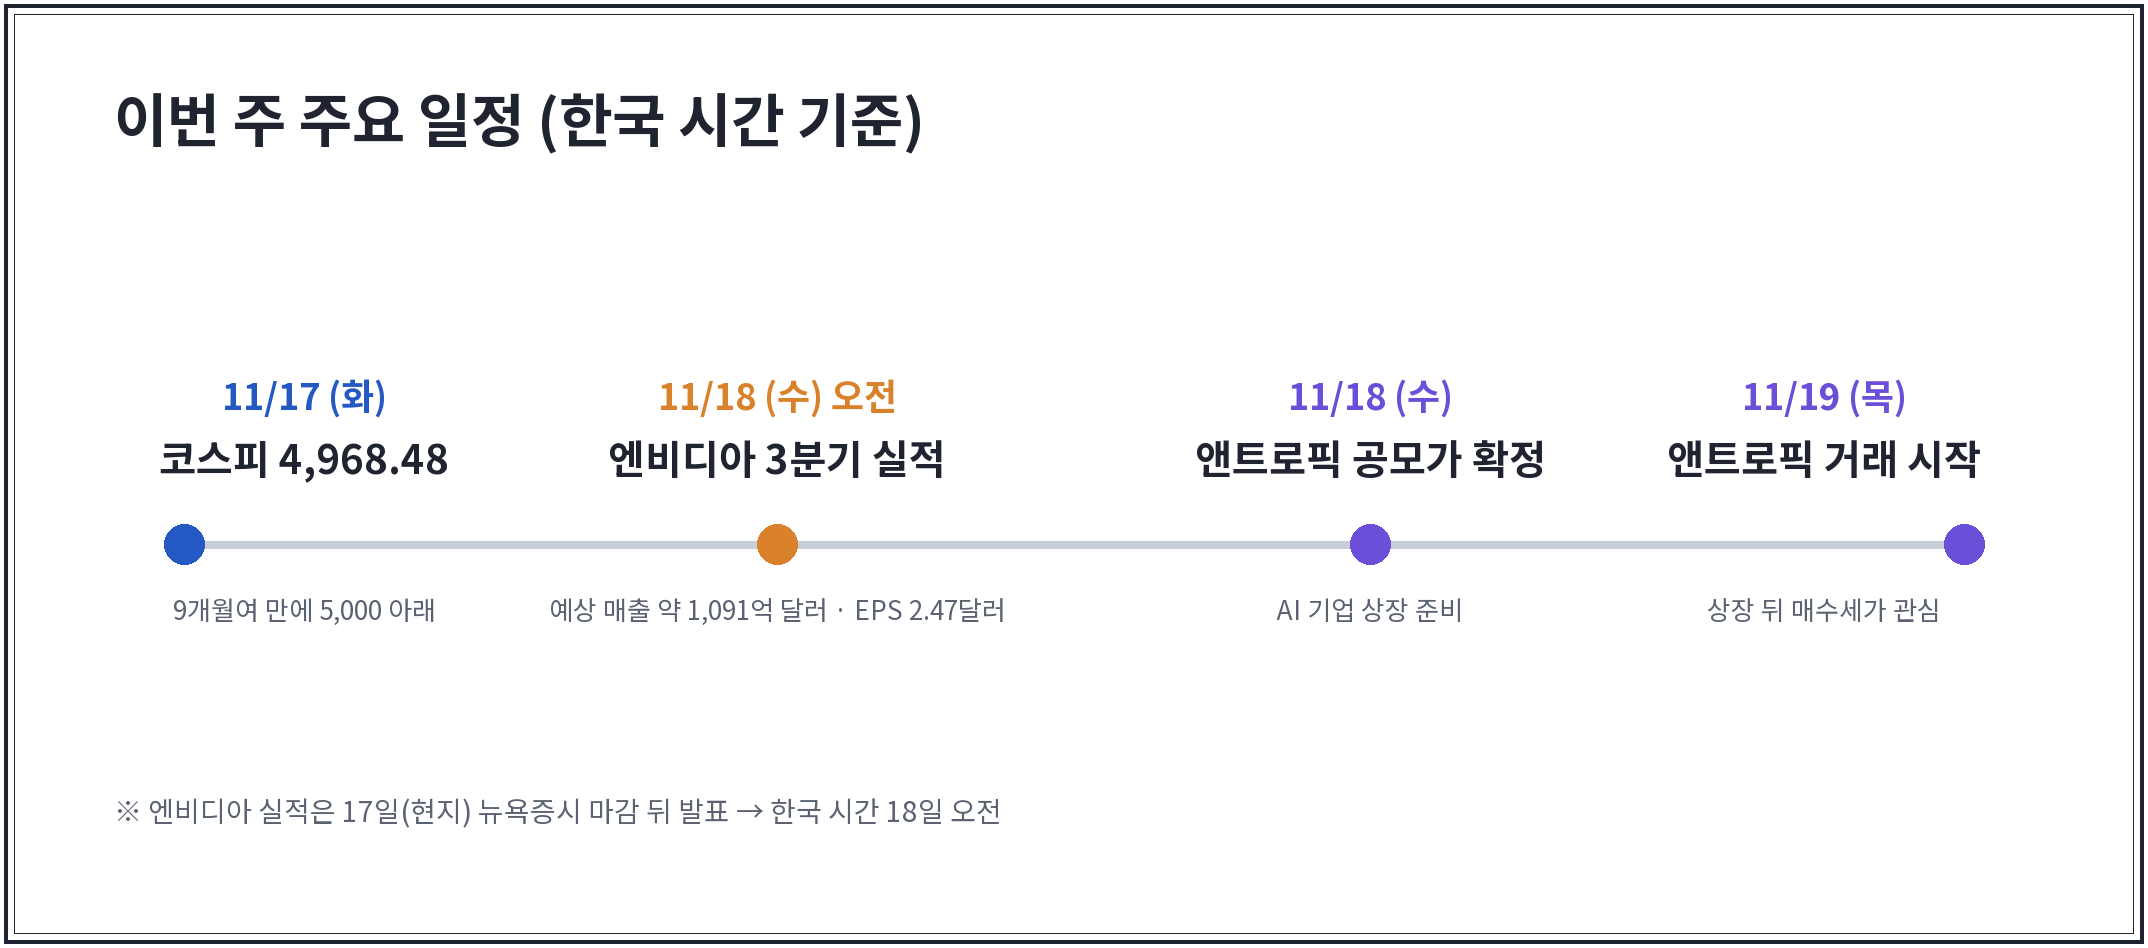
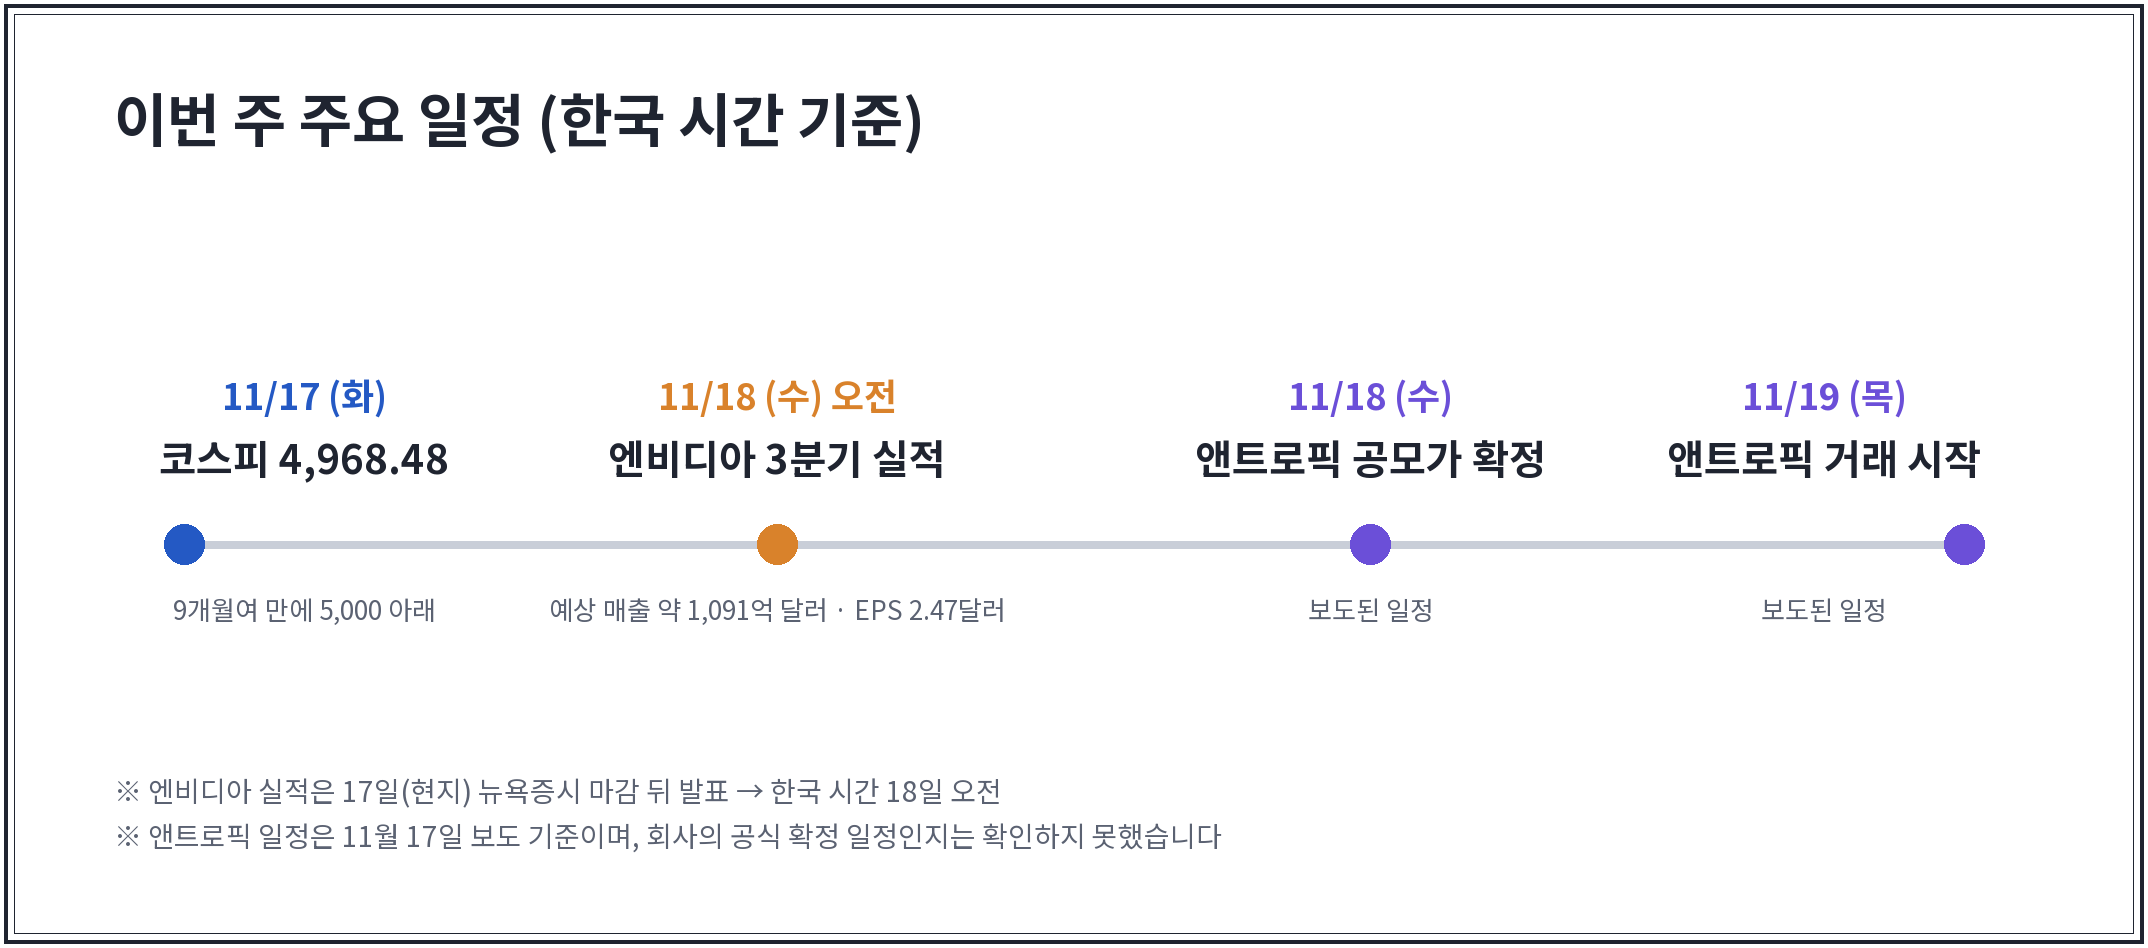
코스피 5,000 글: 외부 검수 반영(엔비디아 공식 발표 날짜, 수급 기준, 약세장·PER·환율 표현, 앤트로픽 보도 일정), 이미지 07·08 수정

Changed region(s): [[0.0312, 0.8259, 0.5615, 0.9177], [0.811, 0.6118, 0.9046, 0.673], [0.5926, 0.6118, 0.6862, 0.673]]

diff --git a/문서/네이버-코딩가이드/20261117_코스피-5000-붕괴/index.html b/문서/네이버-코딩가이드/20261117_코스피-5000-붕괴/index.html
@@ -4,7 +4,7 @@
 제목: 코스피 5,000 아래로, 11월 17일 하루에 무슨 일이 있었나 (숫자로 정리)
 카테고리: 경제·투자
 태그: #코스피 #코스피5000 #5천피 #코스피하락 #삼성전자 #SK하이닉스 #엔비디아 #엔비디아실적 #외국인매도 #필라델피아반도체지수
-글자 수: 본문 공백 포함 4,296자 / 공백 제외 3,393자 (빨간 글씨 이미지 표시·줄바꿈 제외)
+글자 수: 본문 공백 포함 4,578자 / 공백 제외 3,609자 (빨간 글씨 이미지 표시·줄바꿈 제외)
 분량·형식: 원래 네이버 글 방식(소제목·구분선), 객관적인 사실 위주(사용자 요청 2026.11.17), 4,000~6,000자.
 발행 방법: 이 파일을 브라우저로 연 다음 본문을 드래그해 복사 → 네이버 편집기에 붙여넣는다.
           본문의 빨간 글씨 [[ 이미지: 제목 (파일명) ]] 자리에 해당 파일을 올리고, 빨간 글씨는 지운다.
@@ -50,7 +50,7 @@
 
 <p>2026년 11월 17일, 코스피가 4,968.48로 거래를 마쳤습니다. 전날보다 132.02포인트(2.59%) 내린 값입니다. 코스피가 종가 기준으로 5,000 아래에서 끝난 것은 2월 2일(4,949.67) 이후 9개월여 만입니다.</p>
 
-<p>하락은 이날 하루로 끝난 것이 아닙니다. 코스피는 11월 12일부터 4거래일 연속 내렸고, 바로 전날인 16일에도 3.59% 떨어졌습니다. 이 글에서는 17일 하루 동안 시장에서 어떤 숫자가 나왔는지, 그리고 그 배경으로 무엇이 거론됐는지를 차례대로 정리했습니다.</p>
+<p>하락은 이날 하루로 끝난 것이 아닙니다. 코스피는 11월 12일부터 4거래일 연속 내렸고, 바로 전날인 16일에도 3.59% 떨어졌습니다. 이 글은 ① 17일 당일 숫자, ② 전날 밤 미국 시장, ③ 하락 배경과 이번 주 일정(참고) 순서로 정리했습니다. ③은 확정된 사실이 아니라 시장의 해석과 예정 일정입니다.</p>
 
 <p>&nbsp;</p>
 <hr style="border:none;border-top:1px solid #cfcfcf;margin:8px 0;">
@@ -61,8 +61,9 @@
 <p>· <b>코스피</b>: 4,968.48 (−132.02, −2.59%)<br>
 · <b>코스닥</b>: 650.06 (−15.59, −2.34%)<br>
 · <b>원·달러 환율</b>: 1,338.2원 (전날보다 2.5원 오름, 오후 3시 30분 기준)<br>
-· <b>외국인</b>: 코스피에서 1조 4천억~1조 5천억 원대 순매도<br>
-· <b>개인·기관</b>: 코스피에서 순매수</p>
+· <b>외국인</b>: 1조 4천억~1조 5천억 원대 순매도<br>
+· <b>개인·기관</b>: 순매수<br>
+(외국인·개인·기관은 모두 유가증권시장(코스피), 장 마감 집계 기준)</p>
 
 <p>외국인 순매도 금액은 집계 시점에 따라 1조 4,430억 원부터 1조 5,516억 원까지 조금씩 다르게 발표됐습니다. 개인과 기관은 주식을 더 많이 샀지만, 외국인이 판 금액이 더 컸습니다.</p>
 
@@ -74,11 +75,11 @@
 <p>이틀 연속 큰 폭으로 내렸다는 점이 이번 하락의 특징입니다.</p>
 
 <p>· <b>11월 16일</b>: 코스피 −3.59%, 외국인 1조 원 넘게 순매도, 원·달러 환율 1,335.7원(전날보다 1.0원 내림)<br>
-· <b>11월 17일</b>: 코스피 −2.59%, 외국인 1조 4천억~1조 5천억 원대 순매도, 원·달러 환율 1,338.2원(2.5원 오름)</p>
+· <b>11월 17일</b>: 코스피 −2.59%, 외국인 1조 4천억~1조 5천억 원대 순매도(유가증권시장), 원·달러 환율 1,338.2원(2.5원 오름)</p>
 
 <p>16일에는 주가가 크게 내렸는데도 환율이 오히려 조금 내렸습니다. 당시 시장에서는 반도체 수출 기업들이 벌어들인 달러를 원화로 바꾼 물량이 환율을 눌렀다는 해석이 나왔습니다. 17일에는 환율이 2.5원 올랐습니다.</p>
 
-<p>참고로 외국인이 한국 주식을 판 돈을 달러로 바꿔 나가면, 시장에 달러를 사려는 수요가 늘어 환율이 오르는 쪽으로 힘이 작용합니다. 다만 환율은 수출 기업의 달러 매도, 미국 금리, 달러 자체의 강약 같은 여러 요인이 함께 움직이기 때문에, 하루 숫자만으로 원인을 하나로 정하기는 어렵습니다.</p>
+<p>참고로 외국인이 한국 주식을 판 돈을 달러로 바꿔 나가면, 시장에 달러를 사려는 수요가 늘어 환율 상승 압력으로 작용할 수 있습니다. 다만 환율은 수출 기업의 달러 매도, 미국 금리, 달러 자체의 강약 같은 여러 요인이 함께 움직이기 때문에, 하루 숫자만으로 원인을 하나로 정하기는 어렵습니다.</p>
 
 <p>&nbsp;</p>
 <hr style="border:none;border-top:1px solid #cfcfcf;margin:8px 0;">
@@ -99,7 +100,7 @@
 <hr style="border:none;border-top:1px solid #cfcfcf;margin:8px 0;">
 <h2 style="font-size:22px;margin:40px 0 12px;">삼성전자와 SK하이닉스는?</h2>
 
-<p>코스피 시가총액 상위 20개 종목이 모두 내렸습니다.</p>
+<p>이날 코스피 시가총액 상위 20개 종목이 모두 내렸습니다.</p>
 
 <p>· <b>삼성전자</b>: −3.30%, 19만 300원<br>
 · <b>SK하이닉스</b>: −1.96%, 109만 8,000원<br>
@@ -127,7 +128,7 @@
 · <b>다우존스</b>: 51,608.17 (−1.41%)<br>
 · <b>필라델피아 반도체지수</b>: −5.3%</p>
 
-<p>반도체 종목의 하락이 특히 컸습니다. 엔비디아와 알파벳이 각각 4% 안팎, 마이크론과 인텔은 7% 넘게 내렸습니다. 필라델피아 반도체지수는 최근 3거래일 동안 9% 떨어졌고, 6월 고점과 비교하면 34.3% 낮은 수준입니다. 시장에서는 보통 고점보다 20% 넘게 내리면 '약세장'에 들어섰다고 표현합니다.</p>
+<p>반도체 종목의 하락이 특히 컸습니다. 엔비디아와 알파벳이 각각 4% 안팎, 마이크론과 인텔은 7% 넘게 내렸습니다. 필라델피아 반도체지수는 최근 3거래일 동안 9% 떨어졌고, 6월에 기록한 고점과 비교하면 34.3% 낮은 수준입니다. 고점보다 20% 넘게 내린 상태를 흔히 '약세장'이라고 부릅니다. 공식 분류가 아니라 시장에서 관행처럼 쓰는 기준입니다.</p>
 
 <p style="color:#e60000;font-weight:bold;">[[ 이미지: 11월 16일(현지) 미국 증시 등락률 (05-미국-증시.png) ]]</p>
 
@@ -138,7 +139,7 @@
 <p>주가가 내린 이유를 하나로 딱 잘라 말하기는 어렵습니다. 다만 증권가와 외신에서 공통으로 꼽은 요인은 크게 세 가지입니다. 아래는 확정된 원인이 아니라 시장에서 나온 해석입니다.</p>
 
 <p><b>① 엔비디아 경영 공백</b><br>
-AI 반도체 대표 기업 엔비디아의 창업자 젠슨 황이 최근 최고경영자(CEO) 자리에서 물러났습니다. 지금은 최고재무책임자(CFO)인 콜레트 크레스가 임시 CEO를 함께 맡고 있습니다. 엔비디아 주가는 10월 6일 고점보다 약 35% 낮아졌고, 이 기간 시가총액은 약 2조 달러 줄었습니다.</p>
+엔비디아는 11월 12일 공식 발표에서 창업자 젠슨 황이 최고경영자(CEO)와 이사회에서 물러났다고 밝혔습니다. 최고재무책임자(CFO) 콜레트 크레스가 정식 후임이 정해질 때까지 임시 CEO를 함께 맡고, 이사회는 내부와 외부에서 후임자를 찾고 있습니다. 엔비디아 주가는 10월 6일 고점보다 약 35% 낮아졌고, 이 기간 시가총액은 약 2조 달러 줄었습니다.</p>
 
 <p><b>② 미국의 AI 반도체 규제 강화</b><br>
 미국 정부가 중국이 해외 데이터센터를 통해 첨단 AI 반도체를 원격으로 쓰는 경로를 막는 조치를 추진하고 있습니다. 동남아 국가와 브라질로 수출할 때 사전 허가를 받게 하는 내용도 거론됐습니다.</p>
@@ -163,7 +164,7 @@ AI 반도체 대표 기업 엔비디아의 창업자 젠슨 황이 최근 최고
 
 <p><b>엔비디아 3분기 실적 발표</b> — 17일(현지 시간) 뉴욕증시 마감 뒤, 한국 시간으로는 18일 오전입니다. 시장 예상치는 매출 약 1,091억 달러(1년 전보다 약 91% 증가), 조정 주당순이익(EPS) 2.47달러입니다. 옵션 시장에는 발표 뒤 주가가 위아래로 약 7.8% 움직일 가능성이 반영돼 있다고 합니다. 젠슨 황이 물러난 뒤 처음 하는 실적 발표라, 숫자와 함께 경영 계획을 어떻게 설명할지도 관심입니다. 엔비디아가 앞서 제시한 다음 회계연도(2028 회계연도) 매출 성장률 약 70% 전망을 그대로 유지할지도 시장이 확인하려는 부분입니다.</p>
 
-<p><b>앤트로픽 상장</b> — AI 기업 앤트로픽의 공모가가 18일 확정되고, 19일 거래가 시작될 예정입니다. 상장 이후 매수세가 이어지는지가 AI 투자 분위기를 보여 주는 지표가 될 것이라는 분석이 있습니다.</p>
+<p><b>앤트로픽 상장</b> — 11월 17일 보도된 일정에 따르면 AI 기업 앤트로픽의 공모가가 18일 확정되고, 19일 거래가 시작될 예정입니다. 회사가 공식 확정한 일정인지는 확인하지 못했습니다. 상장 이후 매수세가 이어지는지가 AI 투자 분위기를 보여 주는 지표가 될 것이라는 분석이 있습니다.</p>
 
 <p style="color:#e60000;font-weight:bold;">[[ 이미지: 이번 주 주요 일정 (07-이번-주-일정.png) ]]</p>
 
@@ -175,9 +176,9 @@ AI 반도체 대표 기업 엔비디아의 창업자 젠슨 황이 최근 최고
 
 <p><b>필라델피아 반도체지수</b> — 미국에 상장된 주요 반도체 기업 주가를 묶은 지수입니다. 세계 반도체 업종의 분위기를 볼 때 많이 쓰입니다.</p>
 
-<p><b>PER(주가수익비율)</b> — 주가를 1주당 이익으로 나눈 값입니다. 낮을수록 이익에 비해 주가가 싸다는 뜻으로 읽힙니다. 엔비디아의 앞으로 12개월 예상 이익 기준 PER은 11배 아래로 내려가 2013년 이후 가장 낮은 수준이 됐습니다. 다만 이익 전망 자체가 낮아지면 이 숫자도 달라집니다.</p>
+<p><b>PER(주가수익비율)</b> — 주가를 1주당 이익으로 나눈 값입니다. 낮을수록 이익에 비해 주가가 싸다는 뜻으로 읽히지만, PER이 낮다고 해서 저평가가 보장되는 것은 아닙니다. 앞으로 이익이 줄어들 것으로 예상되면 PER이 낮아도 주가가 더 내릴 수 있습니다. 엔비디아의 앞으로 12개월 예상 이익 기준 PER은 11배 아래로 내려가 2013년 이후 가장 낮은 수준이 됐는데, 이익 전망이 낮아지면 이 숫자도 달라집니다.</p>
 
-<p><b>약세장</b> — 보통 고점보다 20% 넘게 내린 상태를 말합니다.</p>
+<p><b>약세장</b> — 흔히 고점보다 20% 넘게 내린 상태를 이렇게 부릅니다. 공식 기준이 아니라 관행적인 표현입니다.</p>
 
 <p style="color:#e60000;font-weight:bold;">[[ 이미지: 기사에 자주 나온 용어 4가지 (08-용어-풀이.png) ]]</p>
 

diff --git a/AGENTS.md b/AGENTS.md
@@ -160,10 +160,11 @@
 - 히스토리 가이드 후보(2026-11-15 제안, 4번 수능의 역사는 작성함): 한지 유네스코 등재(최종 결정 11.30~12.5 정부간위원회) / 김장 문화의 역사(김장철) / 단종과 영월 청령포('왕과 사는 남자' 흥행) / 순국선열의 날.
 
 ## 진행 상황 (2026-11-17 기준)
-- 2026-11-17: `문서/네이버-코딩가이드/20261117_코스피-5000-붕괴/index.html` 작성("코스피 5,000 아래로, 11월 17일 하루에 무슨 일이 있었나 (숫자로 정리)", 카테고리 경제·투자, 공백 포함 4,296자). 사용자가 네이버 주제 5개(11/17 네이트 관심뉴스) 중 5번을 골랐고 "원래 방식대로, 객관적인 사실 위주로" 쓰라고 했다. 11/18 오전(엔비디아 실적 발표 전후) 발행 권장.
+- 2026-11-17: `문서/네이버-코딩가이드/20261117_코스피-5000-붕괴/index.html` 작성("코스피 5,000 아래로, 11월 17일 하루에 무슨 일이 있었나 (숫자로 정리)", 카테고리 경제·투자, 검수 반영 후 공백 포함 4,578자). 사용자가 네이버 주제 5개(11/17 네이트 관심뉴스) 중 5번을 골랐고 "원래 방식대로, 객관적인 사실 위주로" 쓰라고 했다. 11/18 오전(엔비디아 실적 발표 전후) 발행 권장.
   - 근거: 11/17 장 마감 기사 원문 6건(발행 메모에 주소). 코스피 4968.48(-132.02, -2.59%), 2/2 이후 9개월여 만, 4거래일 연속 하락, 코스닥 650.06(-2.34%), 환율 1338.2원(+2.5), 외국인 순매도는 기사마다 1조4430억~1조5516억이라 '1조 4천억~1조 5천억 원대', 업종·대형주 등락, 16일(현지) 미국 3대 지수·필라델피아 반도체지수 -5.3%, 엔비디아 실적(한국 18일 오전, 예상 매출 1091억 달러·EPS 2.47), 앤트로픽 18일 공모가·19일 거래. 16일 코스피 -3.59%·환율 1335.7원은 이코노미가이드 코스피 급락 글 근거.
   - 하락 배경 세 가지(엔비디아 경영 공백, 미국 AI 반도체 규제, AI 투자 쏠림)는 '확정된 원인이 아니라 시장 해석'이라고 밝혔다. 젠슨 황 퇴진 경위(사생활 의혹)는 쓰지 않았고, 증권사 연구원 이름도 쓰지 않았다. 권유 아님 문장.
   - 이미지 8장: AI 02 하루 숫자(4:5, 카드)·03 대형주 등락(2:1, 얇은 선)·05 미국 증시(16:9, 왼쪽 띠)·06 하락 배경(4:3, 점선)·07 이번 주 일정(7:3, 겹선)·08 용어 풀이(3:4, 꺾쇠)는 `images/`에 있다(하락 파랑). ChatGPT 요청: 01 타이틀(3D '5000' 블록·파란 하락 화살표, 1:1, 밝은 파랑 테두리)·04 모니터 가득한 파란 시세 화면(16:9).
+  - 2026-11-17 외부 검수 반영: '젠슨 황은 사임하지 않았다'는 지적은 엔비디아 공식 보도자료(2026.11.12 'Jensen Huang Resigns', 크레스 임시 CEO)로 사실이 아님을 확인해 반영하지 않고, 본문에 '11월 12일 공식 발표'를 밝혔다. 반영: 당일 숫자·전날 미국·배경과 일정(참고) 구분, 수급 '유가증권시장·장 마감 집계' 기준, '이날' 시총 상위 20개, 필라델피아 반도체 '6월에 기록한 고점'·약세장은 관행적 표현, 환율 '상승 압력으로 작용할 수 있다', PER '낮다고 저평가 보장 아님', 앤트로픽 '보도된 일정·공식 확정 미확인'. 이미지 07·08도 고쳤다. **검수 의견이라도 공식 원문과 다르면 원문을 따르고, 왜 반영하지 않았는지 사용자에게 알린다.**
 - 2026-11-17: `문서/네이버-코딩가이드/20261117_수능-정부대책/index.html` 작성("수능 AI 부정행위 정부 대책, 시험장은 이렇게 달라집니다 (매 교시 안경 검사부터 단추 스티커까지)", 카테고리 생활 정보, 사실 전달형으로 다시 써서 공백 포함 5,190자). 사용자가 네이버 주제 5개(11/17 네이트 관심뉴스 기준) 중 1번을 골랐고 "제목에 '정부 대책'이 들어가면 좋겠다"고 했다. **11월 18일 안에 발행해야 한다(수능 11/19).**
   - 근거: 11/17 국무총리 대국민 담화 전문(영상 기사 원문)과 오전 국무회의 발언·요약 기사로 교차 확인. 전자기기 전원 끄고 수거→시험본부 보관, 가방 복도 보관, 시험 전 재난문자, 1교시 전 안경 책상에 내려놓고 전수 점검·단추마다 스티커·소매 걷고 옷깃 확인·아날로그 시계 등 확인, 3교시 전 재점검, 안경 매 교시, 감독관 7만 5천여 명 + 8,400여 명(전담 1,800·복도 6,600), 의심 시 금속탐지기, 장신구·단추 옷 자제 당부, 응시 제한 1→10년(국회 협의·소급 협의 = 추진 단계), 공무집행방해 고발, 신고센터, 입학 취소·퇴학, 10년 입학 금지(대교협 협의 완료), 판매자·구매자 조사 검토.
   - 구성: 수험생의 하루 순서(입실→1교시 전→매 교시·3교시→감독 인력→옷차림→처벌)로 따라가고, 마지막 소제목 "수능 정부 대책, 19일 아침 가방을 싸기 전에". 처벌은 '정부가 하겠다고 밝힌 것'과 '법 개정·검토가 필요한 것'으로 나눴다. 입실 시각·준비물 목록은 공식 유의사항 원문을 확인하지 못해 쓰지 않았다.
